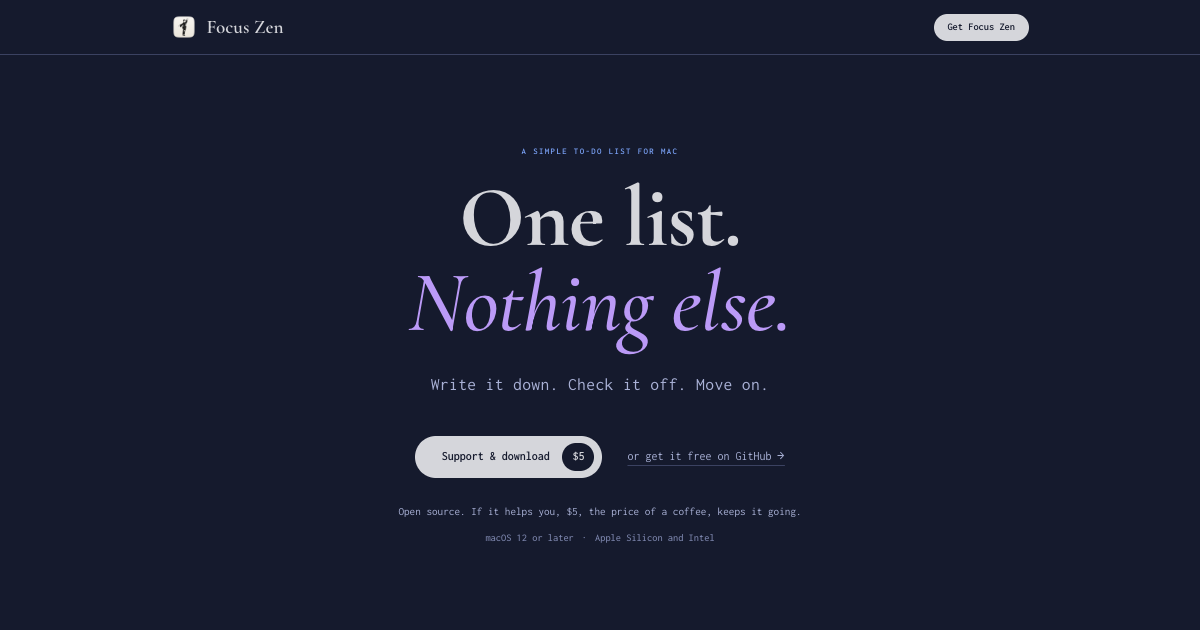
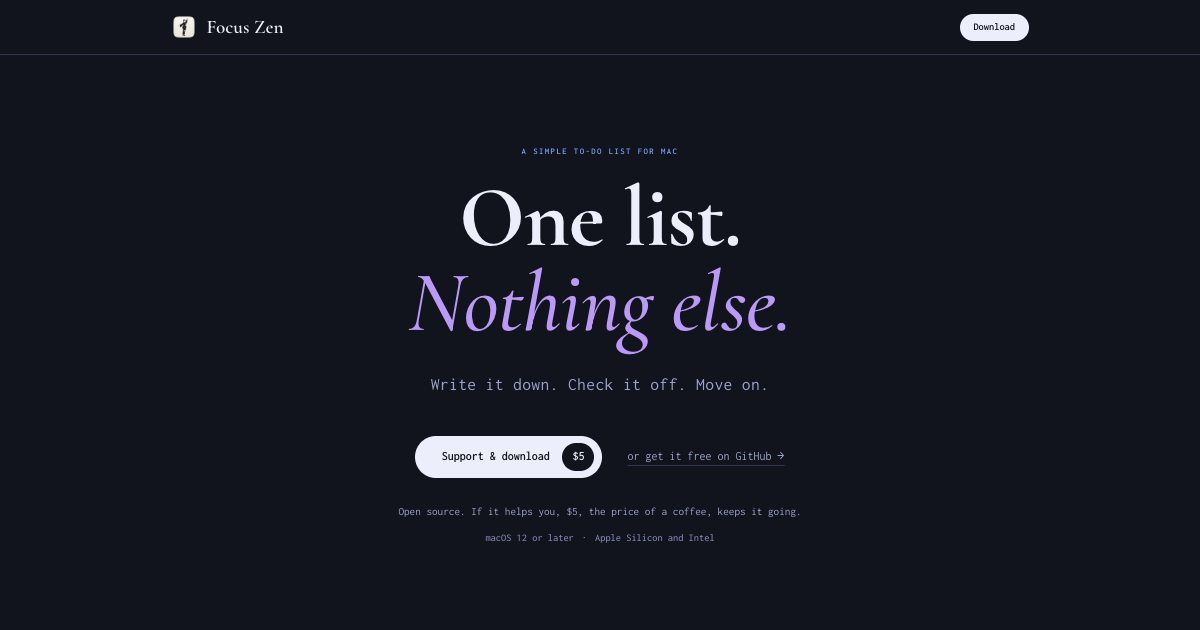
Site: sharp Tokyo Night; the bar button says Download
The owner saw a white haze over the page. Cause: the design system's
tokyo-night palette (grey ink #d5d6db at 11.9:1, muted text only 1.45:1
below it). Fixed at the source (design-system feat/sharp-tokyo-night,
f8b3ecd: ground #11131d, ink #eceffb at 16.1:1, muted a clear step down)
and copied here. theme-color follows; og.png taken again.

The bar's button now reads "Download".

Changed region(s): [[0.37, 0.3016, 0.6167, 0.3921], [0.3392, 0.6937, 0.5242, 0.7841], [0.7708, 0.0, 0.8633, 0.0905]]

diff --git a/site/src/design-system.css b/site/src/design-system.css
@@ -1,26 +1,27 @@
 /* @mobayilo/design-system, copied (the packages are not published yet).
    Source: ~/Documents/Code/p/design-system @ 8f74f89 (design.mobayilo.com)
-   - Theme block: "tokyo-night", generated from themes/src/themes.ts.
+   - Theme block: "tokyo-night" v2 "sharp", generated from themes/src/themes.ts
+     (design-system branch feat/sharp-tokyo-night, f8b3ecd). Keep the two in step.
    - :root scales and .mo-btn: verbatim from ui/styles.css.
    - The footer is ui/footer.css, written to mo-footer.css by `mo-footer css`.
    When the packages are published, depend on @mobayilo/themes + @mobayilo/ui instead. */
 
 html[data-theme="tokyo-night"] {
-  --background: #151a2d;
-  --background-rgb: 21 26 45;
-  --panel: #1a1f37;
-  --panel-soft: #242b45;
-  --line: #3b4261;
+  --background: #11131d;
+  --background-rgb: 17 19 29;
+  --panel: #1b1e2e;
+  --panel-soft: #23273a;
+  --line: #2f344d;
   --line-strong: #7aa2f7;
-  --foreground: #d5d6db;
-  --muted: #a9b1d6;
-  --muted-soft: #7982a9;
+  --foreground: #eceffb;
+  --muted: #9aa3c9;
+  --muted-soft: #7c85ad;
   --accent: #7aa2f7;
   --accent-strong: #bb9af7;
   --accent-wash: rgba(122, 162, 247, 0.16);
-  --chip-background: #242b45;
+  --chip-background: #23273a;
   --chip-foreground: #c0caf5;
-  --card-shadow: 0 12px 32px rgba(6, 8, 20, 0.36);
+  --card-shadow: 0 12px 32px rgba(0, 0, 0, 0.45);
   --page-gradient: none;
 }
 

diff --git a/site/index.html b/site/index.html
@@ -9,7 +9,7 @@
       content="One list. Nothing else. A simple to-do list for macOS that keeps your list on your Mac: no account, no cloud, no tracking. Free and open source; $5 if you want to support it."
     />
     <link rel="canonical" href="https://focus.mobayilo.com/" />
-    <meta name="theme-color" content="#151a2d" />
+    <meta name="theme-color" content="#11131d" />
     <link rel="icon" type="image/png" href="./src/assets/icon-256.png" />
     <link rel="apple-touch-icon" href="./src/assets/icon-256.png" />
 
@@ -36,7 +36,7 @@
         <a class="brand" href="/"
           ><img src="./src/assets/icon-256.png" alt="" width="32" height="32" /><span>Focus Zen</span></a
         >
-        <a class="mo-btn mo-btn-sm mo-btn-primary" href="#get">Get Focus Zen</a>
+        <a class="mo-btn mo-btn-sm mo-btn-primary" href="#get">Download</a>
       </div>
     </header>
 

diff --git a/site/thanks.html b/site/thanks.html
@@ -6,7 +6,7 @@
     <title>Thank you — Focus Zen</title>
     <!-- Buyers land here from Stripe; it is not a page to find in search. -->
     <meta name="robots" content="noindex" />
-    <meta name="theme-color" content="#151a2d" />
+    <meta name="theme-color" content="#11131d" />
     <link rel="icon" type="image/png" href="./src/assets/icon-256.png" />
     <link rel="apple-touch-icon" href="./src/assets/icon-256.png" />
 

diff --git a/site/404.html b/site/404.html
@@ -5,7 +5,7 @@
     <meta name="viewport" content="width=device-width, initial-scale=1" />
     <title>Not found — Focus Zen</title>
     <meta name="robots" content="noindex" />
-    <meta name="theme-color" content="#151a2d" />
+    <meta name="theme-color" content="#11131d" />
     <link rel="icon" type="image/png" href="./src/assets/icon-256.png" />
     <link rel="stylesheet" href="./src/thanks.page.css" />
   </head>
